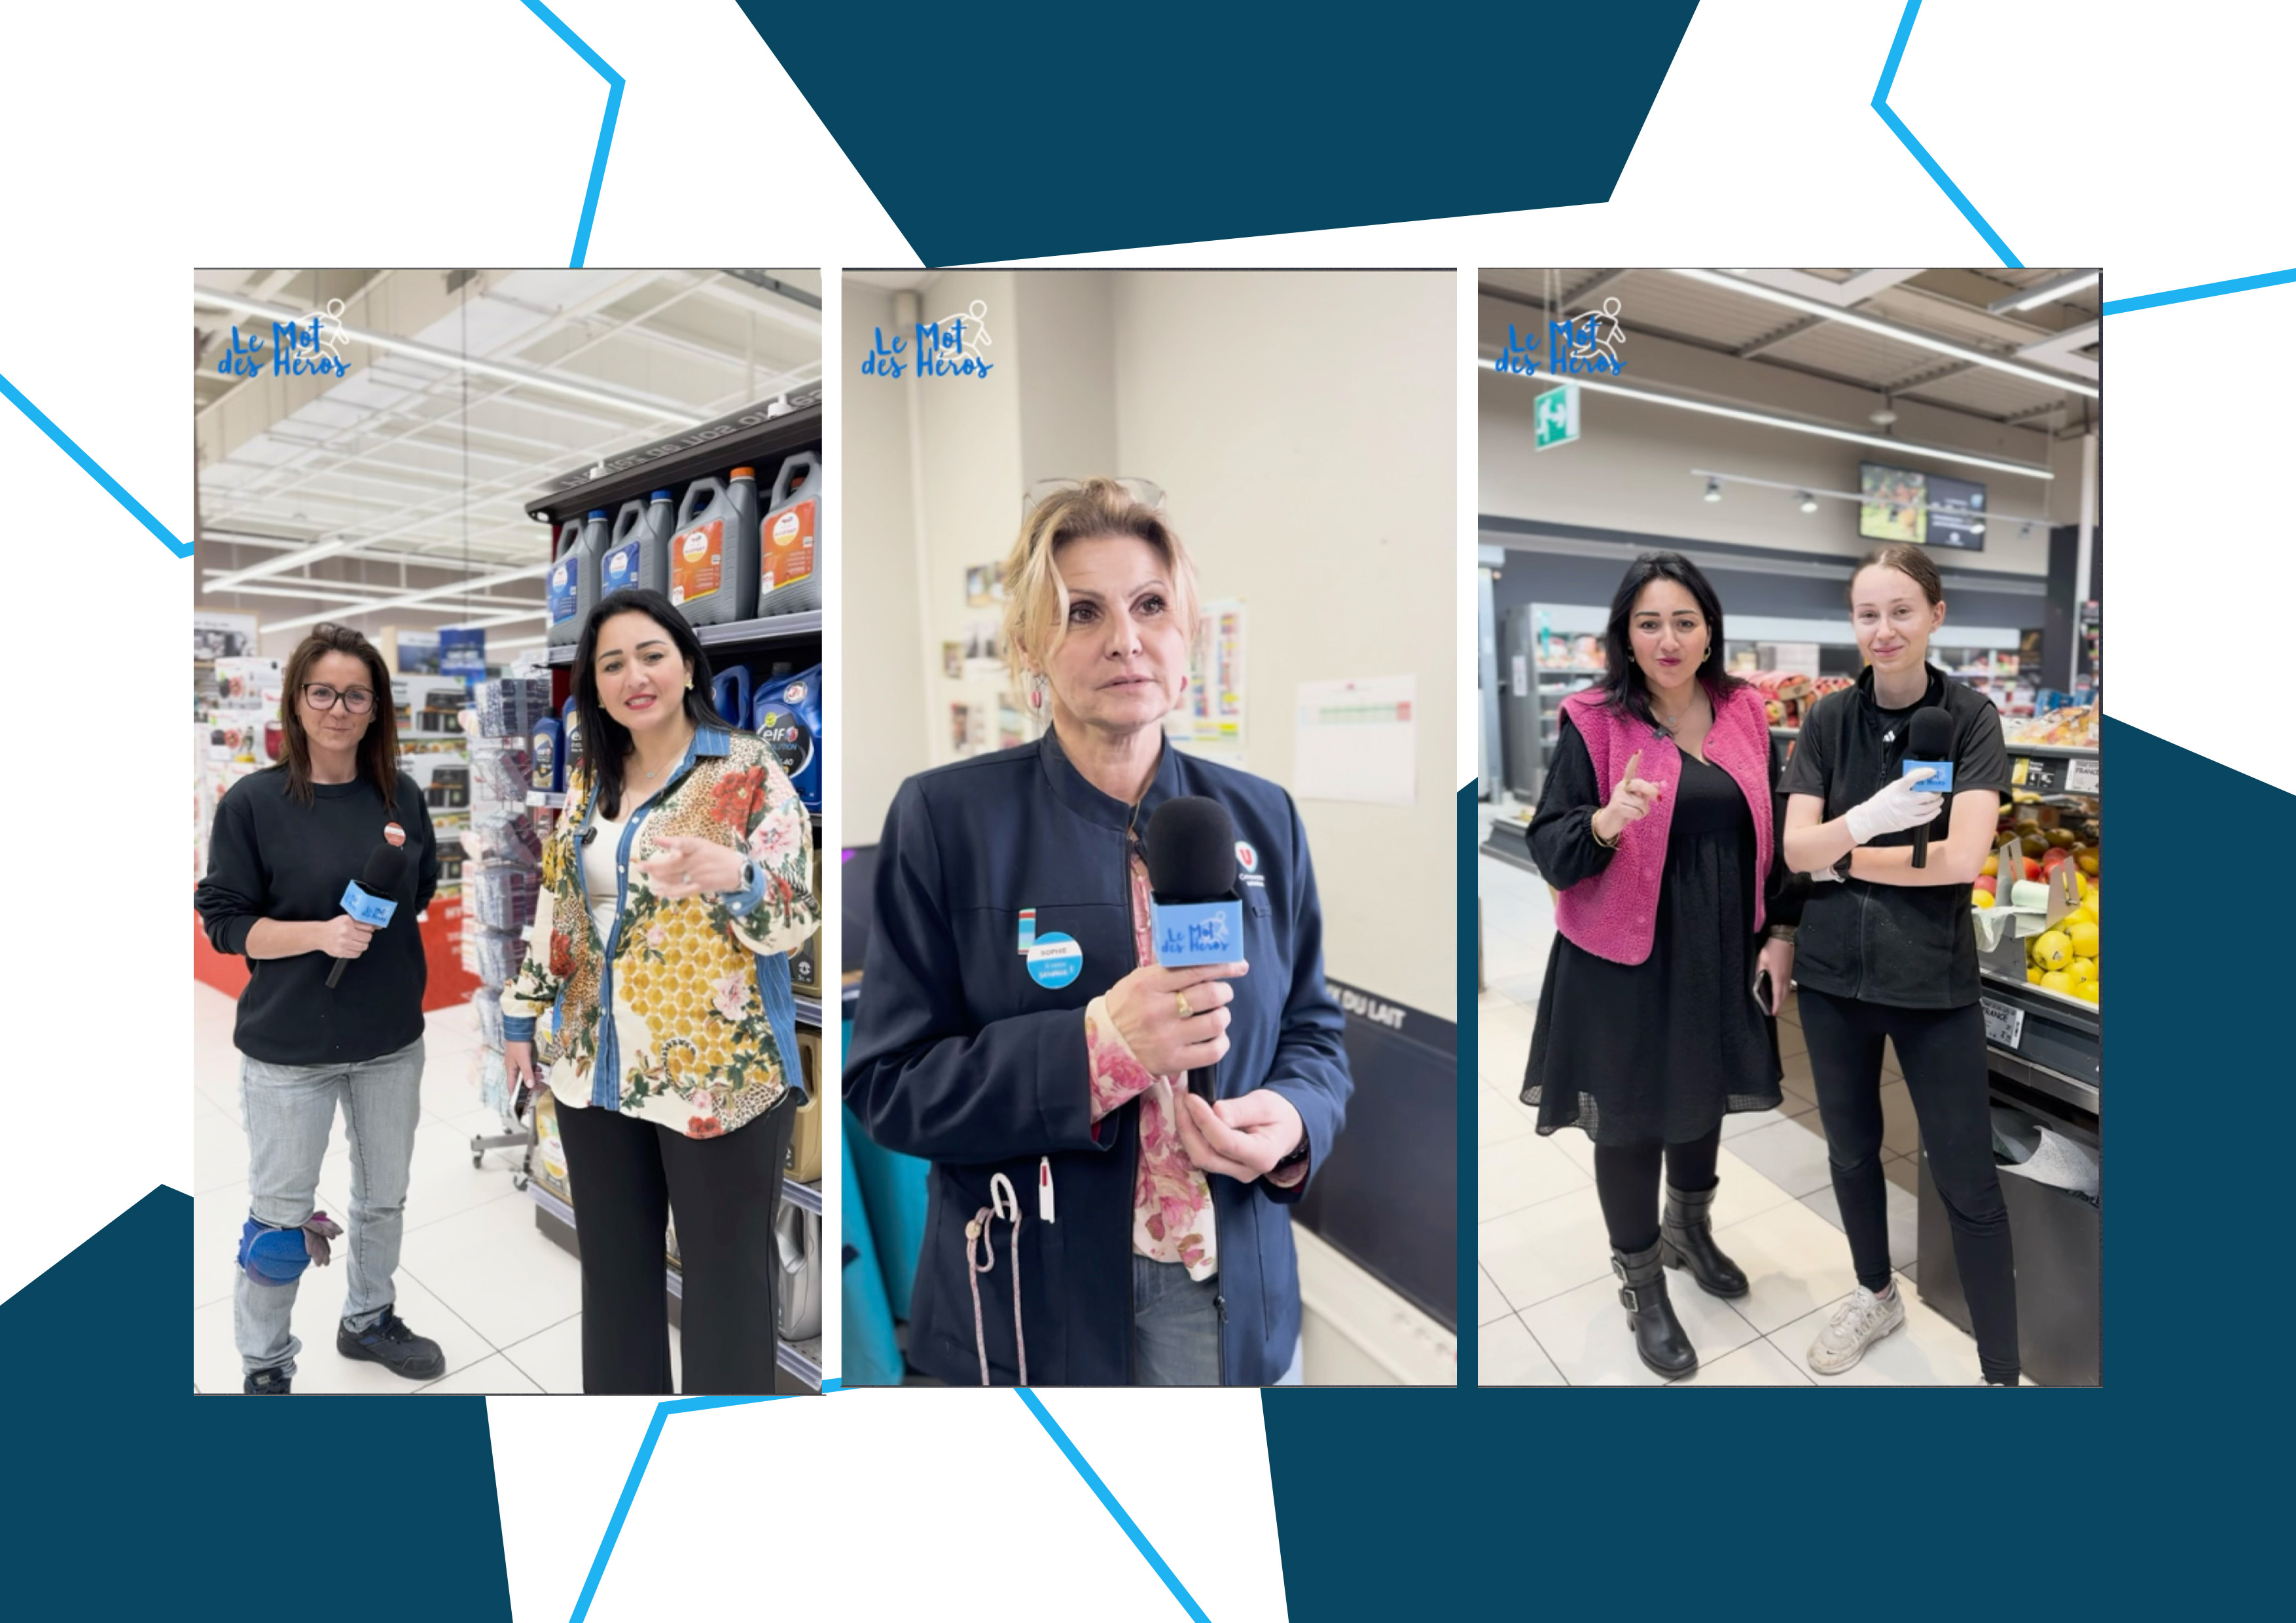
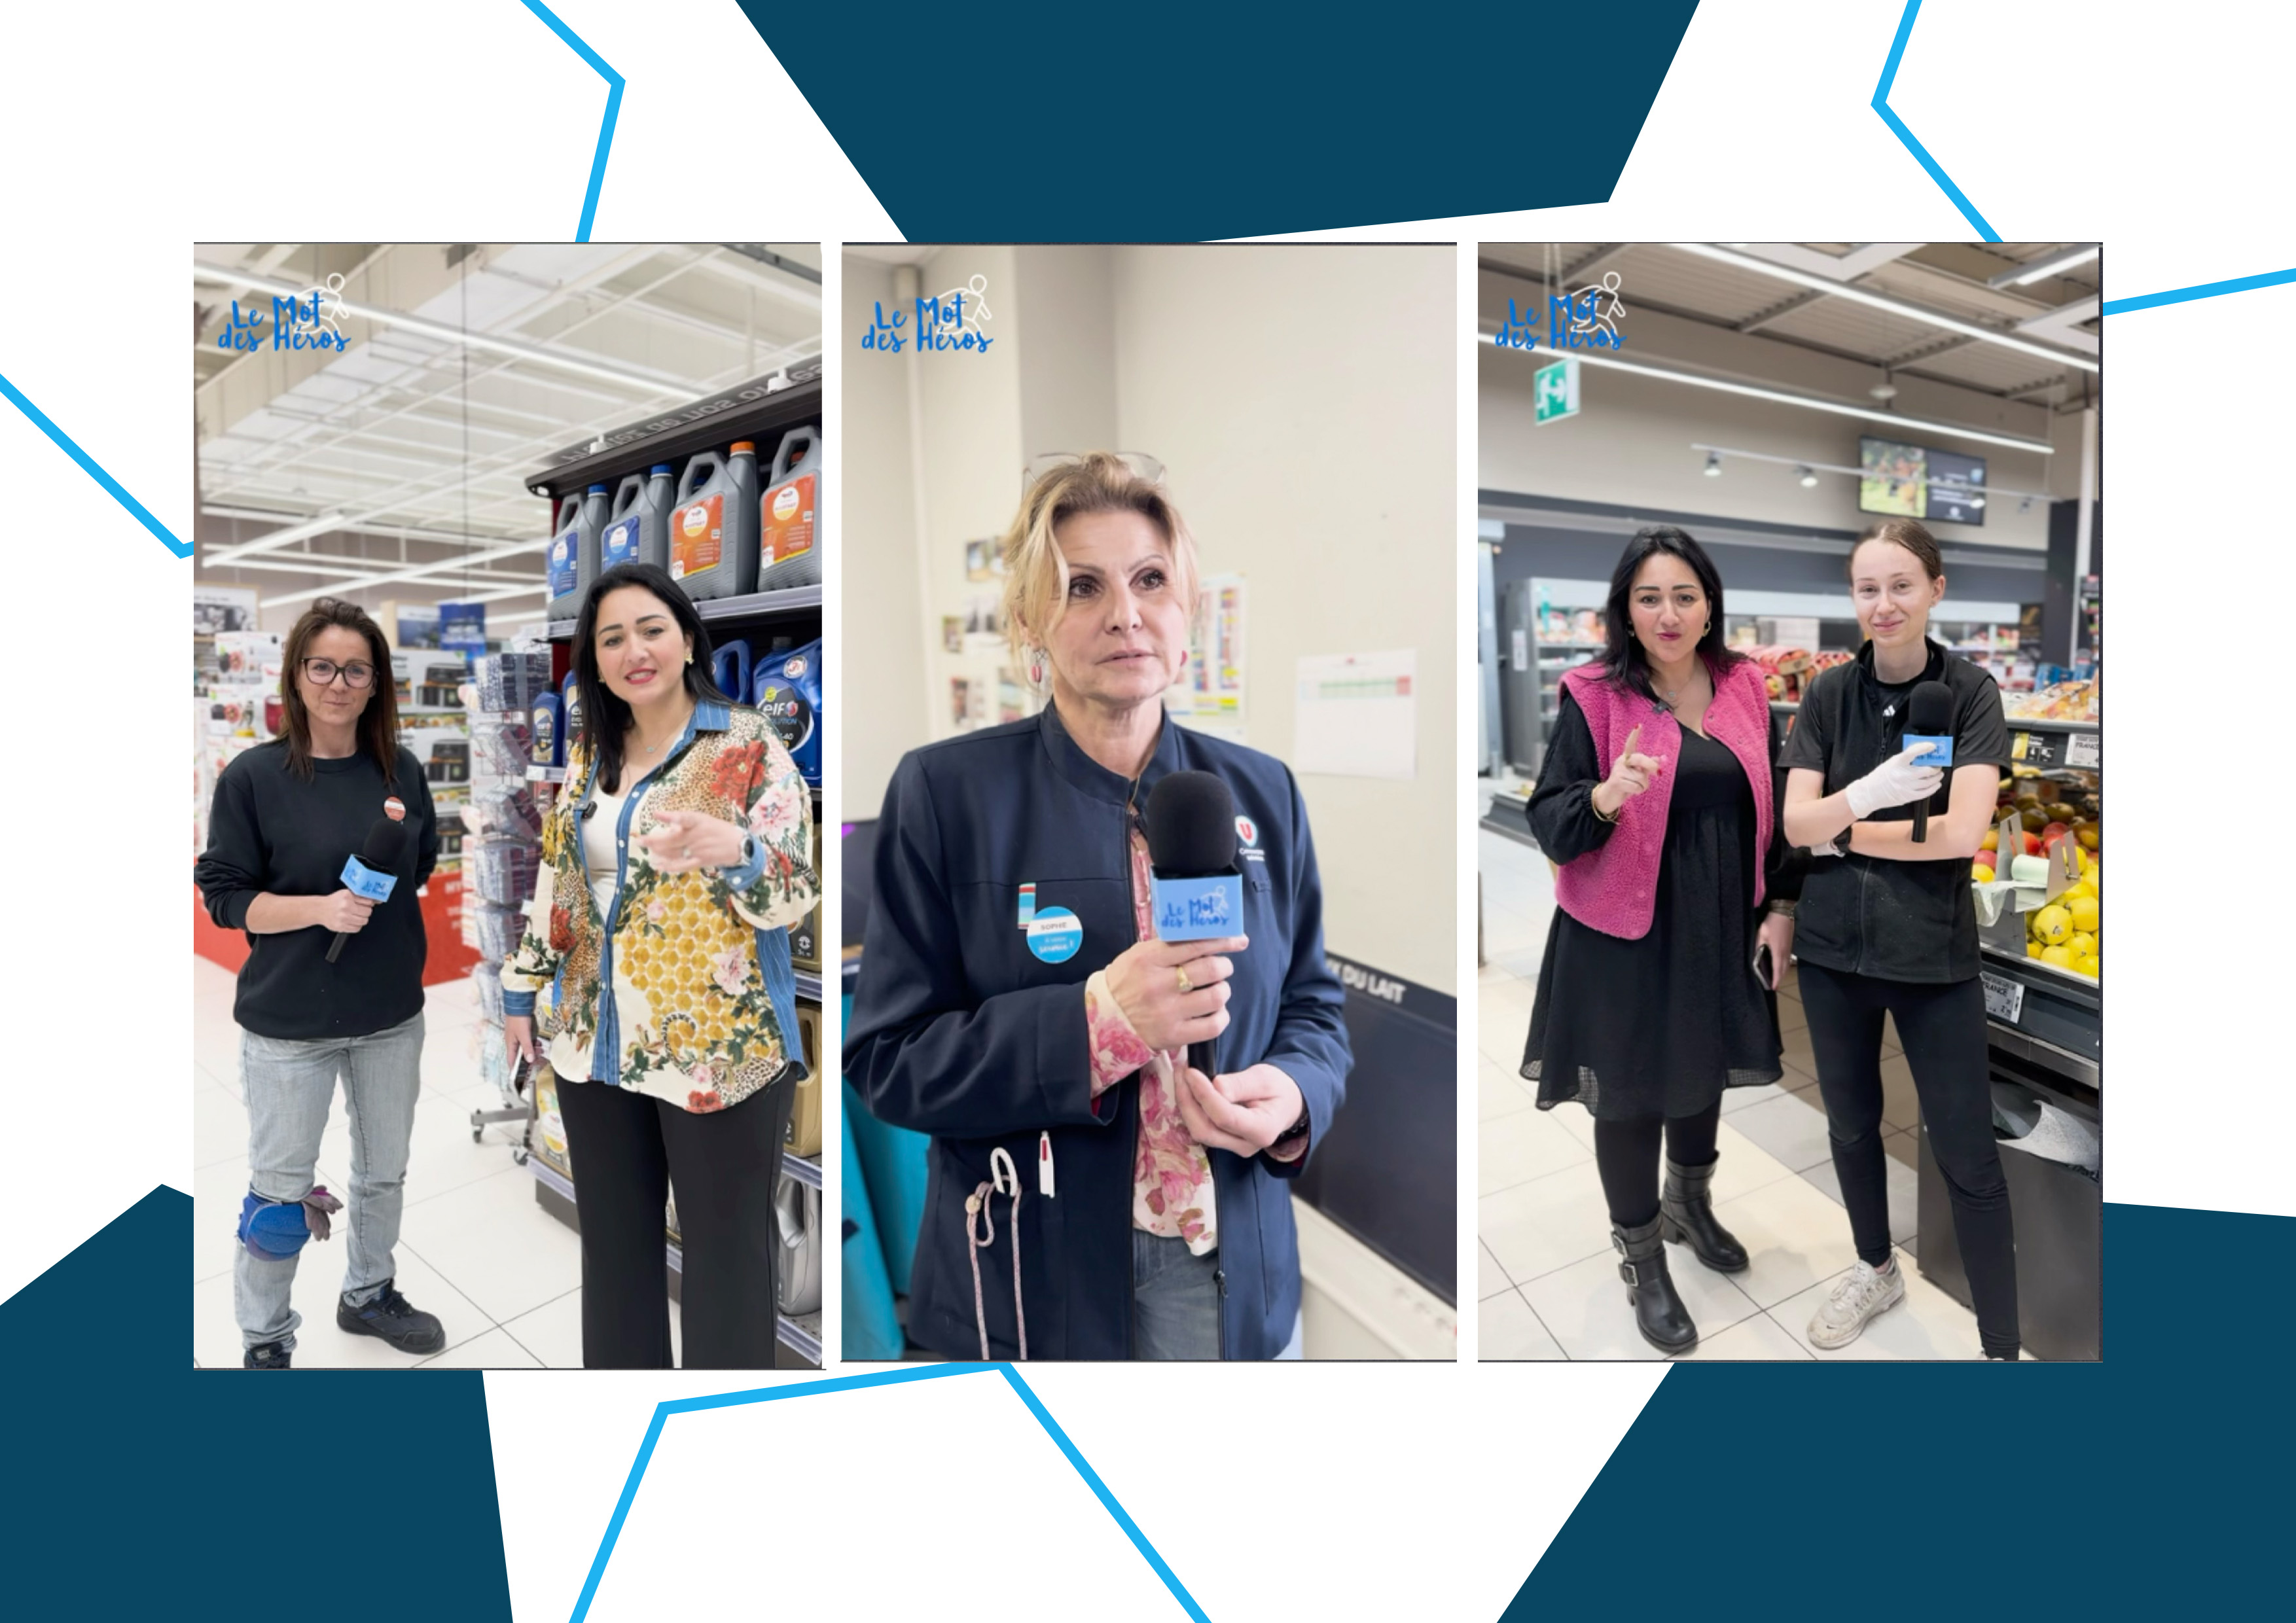
maj animation image et carrousel

diff --git a/index.html b/index.html
@@ -40,7 +40,7 @@ html{scroll-behavior:smooth}
 body{
   font-family:-apple-system,BlinkMacSystemFont,'Segoe UI','Helvetica Neue',Arial,sans-serif;
   background:var(--bg);color:var(--fg);font-size:16px;line-height:1.5;
-  min-height:100vh;transition:background .25s,color .25s;
+  min-height:100vh;transition:background .50s,color .50s;
 }
 a{color:inherit;text-decoration:none}
 img{display:block;max-width:100%}
@@ -69,7 +69,7 @@ input,textarea{font-family:inherit}
 .navbar{
   position:fixed;top:0;left:0;right:0;z-index:100;
   background:var(--bg);border-bottom:1px solid var(--border);
-  transition:background .25s;
+  transition:background .50s;
 }
 .nav-inner{
   max-width:1400px;margin:0 auto;padding:18px 48px;
@@ -173,7 +173,7 @@ input,textarea{font-family:inherit}
   background:var(--bg);opacity:0;padding:10px;transition:opacity .3s}
 .pcard:hover .pcard-overlay{opacity:.95}
 .pcard-title{font-size:1.05rem;font-weight:700;text-transform:uppercase;
-  letter-spacing:-.01em;margin-bottom:3px;transition:opacity .2s}
+  letter-spacing:-.01em;margin-bottom:3px;transition:opacity .50s}
 .pcard:hover .pcard-title{opacity:.55}
 .pcard-desc{font-size:.82rem;opacity:.55;line-height:1.5}
 .ptags{display:flex;flex-wrap:wrap;gap:5px;margin-top:7px}
@@ -210,7 +210,7 @@ input,textarea{font-family:inherit}
 .filters{display:flex;flex-wrap:wrap;gap:8px;margin-bottom:.75rem}
 .filter-btn{border:1px solid var(--border);padding:9px 18px;
   background:transparent;color:inherit;
-  font-size:.62rem;letter-spacing:.14em;text-transform:uppercase;transition:all .2s}
+  font-size:.62rem;letter-spacing:.14em;text-transform:uppercase;transition:all .50s}
 .filter-btn:hover,.filter-btn.active{background:var(--fg);color:var(--bg);border-color:var(--fg)}
 .filter-count{display:flex;align-items:center;gap:10px;font-size:.85rem;opacity:.55}
 .fline{width:36px;height:1px;background:var(--border)}
@@ -238,7 +238,7 @@ input,textarea{font-family:inherit}
 .info-card{border:1px solid var(--border);padding:1.4rem;margin-bottom:1.3rem}
 .info-hd{display:flex;justify-content:space-between;align-items:center;margin-bottom:.8rem}
 .info-label{font-size:.62rem;letter-spacing:.2em;text-transform:uppercase;opacity:.55}
-.info-link{display:flex;align-items:center;gap:8px;font-size:1.05rem;transition:opacity .2s}
+.info-link{display:flex;align-items:center;gap:8px;font-size:1.05rem;transition:opacity .50s}
 .info-link:hover{opacity:.55}
 .status-card{background:var(--fg);color:var(--bg);padding:1.4rem}
 .status-hd{display:flex;align-items:center;gap:7px;margin-bottom:5px}
@@ -261,7 +261,7 @@ input,textarea{font-family:inherit}
 .year-btn{border:1px solid var(--border);padding:10px 22px;
   background:transparent;color:inherit;
   font-size:.65rem;letter-spacing:.14em;text-transform:uppercase;
-  margin-right:8px;margin-bottom:8px;transition:all .2s}
+  margin-right:8px;margin-bottom:8px;transition:all .50s}
 .year-btn:hover,.year-btn.active{background:var(--fg);color:var(--bg);border-color:var(--fg)}
 .btn-evo{display:inline-flex;align-items:center;gap:10px;
   border:2px solid var(--fg);padding:13px 20px;
@@ -276,7 +276,7 @@ input,textarea{font-family:inherit}
 .comp-cards{display:grid;grid-template-columns:repeat(3,1fr);gap:1.4rem}
 @media(max-width:1024px){.comp-cards{grid-template-columns:repeat(2,1fr)}}
 @media(max-width:640px){.comp-cards{grid-template-columns:1fr}}
-.comp-card{border:1px solid var(--border);padding:1.8rem;cursor:pointer;transition:background .2s}
+.comp-card{border:1px solid var(--border);padding:1.8rem;cursor:pointer;transition:background .50s}
 .comp-card:hover{background:rgba(128,128,128,.05)}
 .comp-card-top{display:flex;justify-content:space-between;align-items:flex-start;margin-bottom:1.3rem}
 .comp-num{background:var(--fg);color:var(--bg);padding:4px 11px;
@@ -317,7 +317,7 @@ footer{border-top:1px solid var(--border);margin-top:3rem}
 .footer-copy{font-size:.62rem;letter-spacing:.2em;text-transform:uppercase;opacity:.4}
 .back-top{background:transparent;border:none;color:inherit;
   display:flex;align-items:center;gap:6px;
-  font-size:.62rem;letter-spacing:.2em;text-transform:uppercase;opacity:.55;transition:opacity .2s}
+  font-size:.62rem;letter-spacing:.2em;text-transform:uppercase;opacity:.55;transition:opacity .50s}
 .back-top:hover{opacity:1}
 
 /* ============================================================
@@ -339,7 +339,7 @@ footer{border-top:1px solid var(--border);margin-top:3rem}
   letter-spacing:-.02em;line-height:1;margin-bottom:3px}
 .modal-subtitle{font-size:1.05rem;opacity:.55}
 .modal-close{border:1px solid var(--border);padding:10px;background:transparent;
-  color:inherit;flex-shrink:0;transition:background .2s;line-height:0}
+  color:inherit;flex-shrink:0;transition:background .50s;line-height:0}
 .modal-close:hover{background:rgba(128,128,128,.08)}
 .modal-close svg{width:22px;height:22px;stroke:currentColor;fill:none;stroke-width:2}
 .modal-body{overflow-y:auto;flex:1;padding:2.2rem 2.8rem}
@@ -349,11 +349,25 @@ footer{border-top:1px solid var(--border);margin-top:3rem}
    CARROUSEL
    ============================================================ */
 .carousel{border:1px solid var(--border);margin-bottom:2.5rem;background:var(--bg2)}
-.car-main{position:relative;aspect-ratio:16/9;max-height:58vh;overflow:hidden}
-.car-main img{width:100%;height:100%;object-fit:cover;display:block}
+.car-main{
+
+  position:relative;
+
+  max-height:58vh;
+
+  overflow:hidden;
+
+  display:flex;
+
+  justify-content:center;
+
+  align-items:center;
+
+}
+.car-main img{width:100%;height:100%;object-fit:cover;display:block;opacity:1;transition:opacity .35s ease;}
 .car-btn{position:absolute;top:50%;transform:translateY(-50%);
   background:rgba(250,250,249,.9);border:1px solid var(--border);
-  padding:13px;color:#0a0a0a;transition:background .2s}
+  padding:13px;color:#0a0a0a;transition:background .50s}
 html.dark .car-btn{background:rgba(10,10,10,.9);color:#fafaf9}
 .car-btn:hover{background:var(--bg)}
 .car-btn.prev{left:18px}
@@ -365,10 +379,12 @@ html.dark .car-btn{background:rgba(10,10,10,.9);color:#fafaf9}
 html.dark .car-counter{background:rgba(10,10,10,.9);color:#fafaf9}
 .car-thumbs{padding:1.1rem;display:flex;gap:9px;overflow-x:auto;justify-content:center}
 .car-thumb{aspect-ratio:16/9;width:100px;flex-shrink:0;
-  border:2px solid transparent;overflow:hidden;opacity:.45;transition:all .2s;cursor:pointer}
+  border:2px solid transparent;overflow:hidden;opacity:.45;transition:all .50s;cursor:pointer}
 .car-thumb:hover{opacity:.75}
 .car-thumb.active{border-color:var(--fg);opacity:1}
 .car-thumb img{width:100%;height:100%;object-fit:cover}
+.proj-grid{transition: opacity .25s ease,transform .25s ease;}
+.proj-grid.fade{opacity:0;transform:translateY(10px);}
 
 /* ============================================================
    SECTIONS MODAL PROJET
@@ -1177,12 +1193,29 @@ document.addEventListener("DOMContentLoaded", function(){
 
 /* NAV */
 function navigateTo(page){
+
   currentPage = page;
-  document.querySelectorAll(".page").forEach(function(p){ p.classList.remove("active"); });
+
+  document.querySelectorAll(".page").forEach(function(p){
+
+    p.classList.remove("active");
+
+  });
+
   var el = document.getElementById("page-"+page);
-  if(el){ el.classList.add("active"); window.scrollTo({top:0,behavior:"smooth"}); }
+
+  if(el){
+
+    el.classList.add("active");
+
+    window.scrollTo({top:0,behavior:"smooth"});
+
+  }
+
   if(page==="mes-projets") renderMpGrid();
+
   renderNav();
+
 }
 
 function renderNav(){
@@ -1346,7 +1379,7 @@ function buildCompPages(){
     var yBtns = ["y1","y2","y3"].map(function(y){
       var ids = c.proj[y]||[];
       if(!ids.length) return "";
-      var lab = {y1:"BUT1",y2:"BUT2",y3:"BUT3 + Alternance"};
+      var lab = {y1:"BUT1",y2:"BUT2",y3:"BUT3"};
       return "<button class='year-btn "+(y==="y1"&&ids.length?"active":"")+"' data-y='"+y+"' onclick='setYear(\""+id+"\",\""+y+"\")'>"+lab[y]+"</button>";
     }).join("");
     el.innerHTML = "<div class='wrap'><div class='section'>"
@@ -1368,9 +1401,31 @@ function buildCompPages(){
 }
 
 function setYear(cid,y){
-  var el = document.getElementById("yf-"+cid);
-  if(el) el.querySelectorAll(".year-btn").forEach(function(b){ b.classList.toggle("active",b.dataset.y===y); });
-  renderCompGrid(cid,y);
+
+  var btns = document.getElementById("yf-"+cid);
+
+  if(btns){
+
+    btns.querySelectorAll(".year-btn").forEach(function(b){
+
+      b.classList.toggle("active", b.dataset.y===y);
+
+    });
+
+  }
+
+  var grid = document.getElementById("cg-"+cid);
+
+  grid.classList.add("fade");
+
+  setTimeout(function(){
+
+    renderCompGrid(cid,y);
+
+    grid.classList.remove("fade");
+
+  }, 200);
+
 }
 
 function renderCompGrid(cid,y){
@@ -1415,15 +1470,30 @@ function closeProjModal(){ document.getElementById("proj-overlay").classList.rem
 
 /* CARROUSEL */
 function renderCar(){
-  document.getElementById("car-img").src = carImgs[carIdx];
-  document.getElementById("car-counter").textContent = (carIdx+1)+" / "+carImgs.length;
-  document.getElementById("car-thumbs").innerHTML = carImgs.map(function(s,i){
-    return "<div class='car-thumb "+(i===carIdx?"active":"")+"' onclick='goCar("+i+")'><img src='"+s+"' loading='lazy'></div>";
-  }).join("");
+  const img = document.getElementById("car-img");
+
+  img.style.opacity = "0";
+
+  setTimeout(() => {
+    img.src = carImgs[carIdx];
+    img.style.opacity = "1";
+  }, 150);
+
+  document.getElementById("car-counter").textContent =
+    (carIdx+1)+" / "+carImgs.length;
+
+  document.getElementById("car-thumbs").innerHTML =
+    carImgs.map(function(s,i){
+      return "<div class='car-thumb "+(i===carIdx?"active":"")+"' onclick='goCar("+i+")'><img src='"+s+"' loading='lazy'></div>";
+    }).join("");
+
   var multi = carImgs.length>1;
-  ["car-prev","car-next","car-counter","car-thumbs"].forEach(function(id){
-    document.getElementById(id).style.display = multi?"":"none";
-  });
+
+document.querySelectorAll(".car-thumb").forEach(function(thumb,i){
+
+  thumb.classList.toggle("active", i===carIdx);
+
+});
 }
 function moveCar(d){ carIdx=(carIdx+d+carImgs.length)%carImgs.length; renderCar(); }
 function goCar(i){ carIdx=i; renderCar(); }